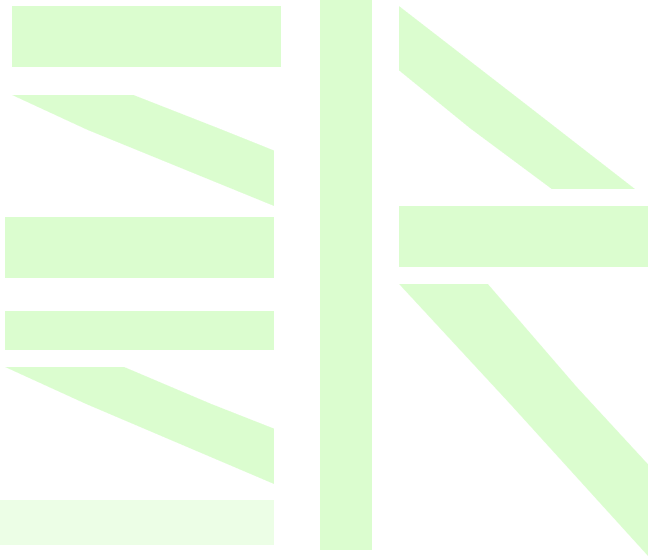
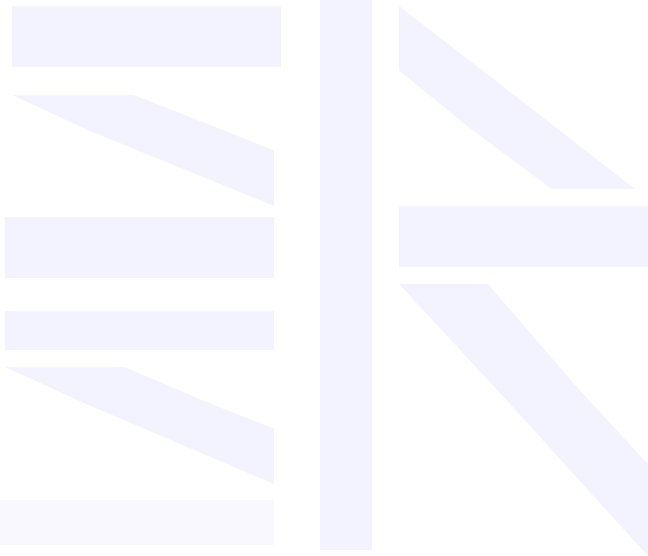
FIX img

diff --git a/frontend/src/com/Header.css b/frontend/src/com/Header.css
@@ -1,9 +1,8 @@
 .title {
   height: 3.5rem;
-  background-color: #ffecec;
   width: 100vw;
   line-height: 3.5rem;
-  color: white;
+  color: #BBB8FF;
   font-size: 1.5rem;
   font-weight: bold;
   text-align: center;
